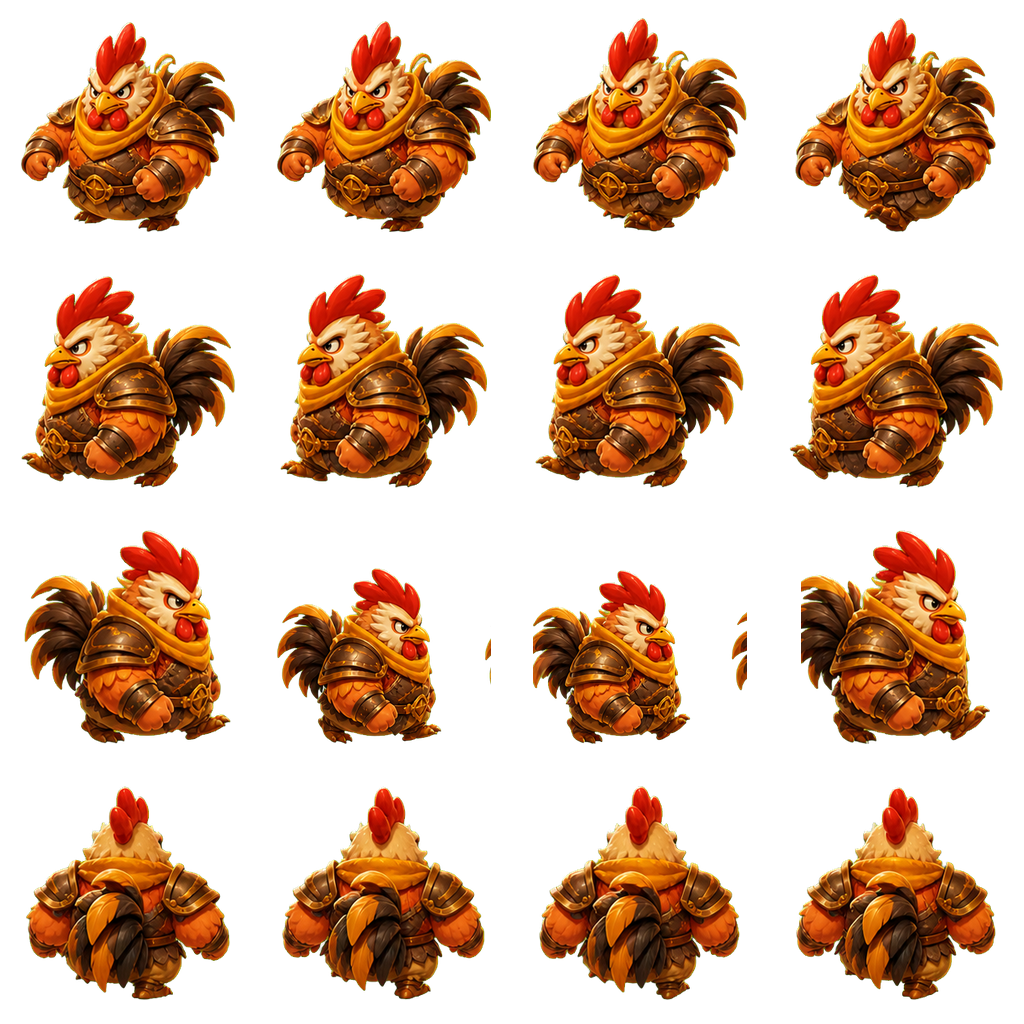
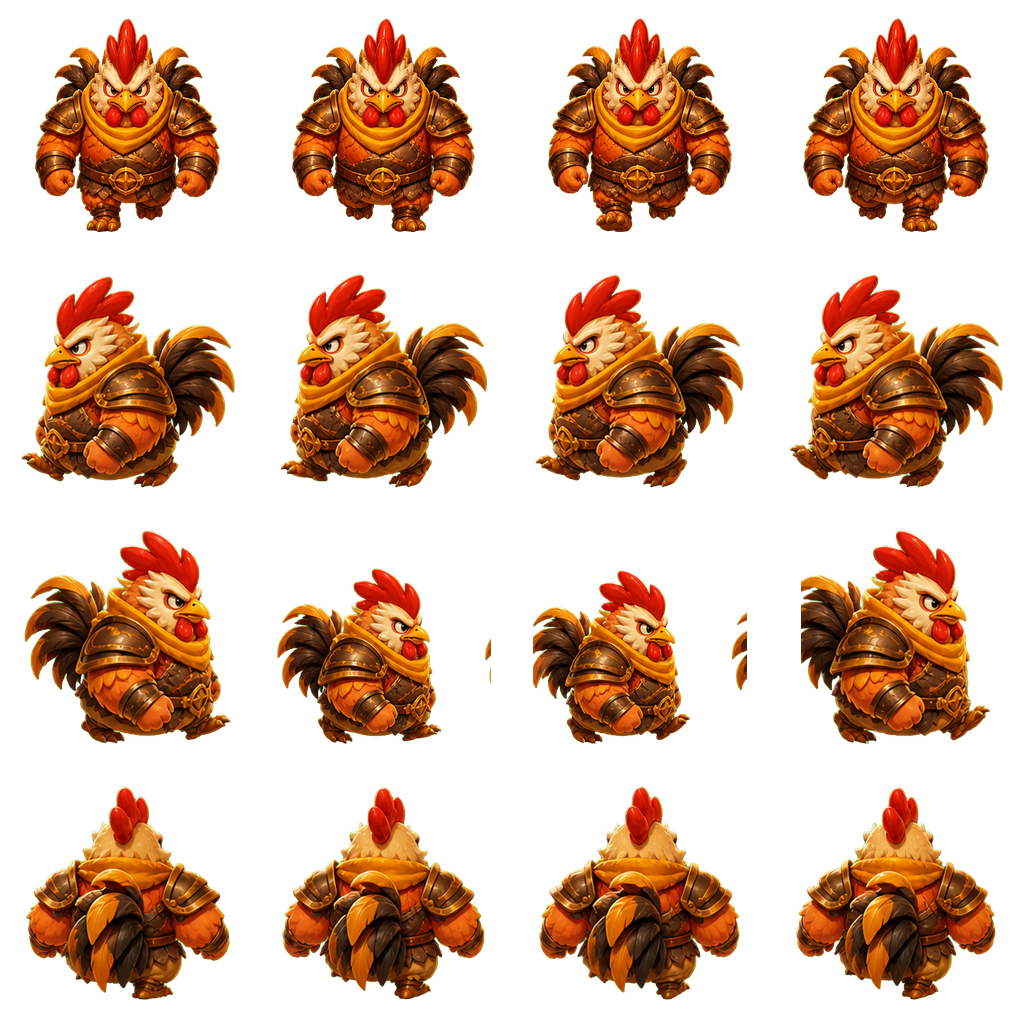
Correct Boombardier south-facing walk

diff --git a/scripts/prepare-rooster-art.py b/scripts/prepare-rooster-art.py
@@ -40,20 +40,33 @@ def normalize_character(character: Image.Image) -> Image.Image:
     return character
 
 
-def build_normalized_sheet(source: Path, target: Path, north_source: Path | None = None) -> None:
+def load_optional_strip(source: Path | None) -> Image.Image | None:
+    if not source or not source.exists():
+        return None
+    with Image.open(source) as image:
+        return image.convert("RGBA").copy()
+
+
+def build_normalized_sheet(
+    source: Path,
+    target: Path,
+    south_source: Path | None = None,
+    north_source: Path | None = None,
+) -> None:
     with Image.open(source) as image:
         converted = image.convert("RGBA")
-        north_strip = None
-        if north_source and north_source.exists():
-            with Image.open(north_source) as north_image:
-                north_strip = north_image.convert("RGBA").copy()
+        direction_strips = {
+            0: load_optional_strip(south_source),
+            3: load_optional_strip(north_source),
+        }
         sheet = Image.new("RGBA", SHEET_SIZE, (0, 0, 0, 0))
         for index in range(16):
             column = index % 4
             row = index // 4
-            frame_source = north_strip if row == 3 and north_strip is not None else converted
-            source_rows = 1 if frame_source is north_strip else 4
-            source_row = 0 if frame_source is north_strip else row
+            strip = direction_strips.get(row)
+            frame_source = strip if strip is not None else converted
+            source_rows = 1 if strip is not None else 4
+            source_row = 0 if strip is not None else row
             left = round(column * frame_source.width / 4)
             top = round(source_row * frame_source.height / source_rows)
             right = round((column + 1) * frame_source.width / 4)
@@ -122,12 +135,13 @@ def validate_portrait(path: Path) -> None:
 def main() -> None:
     for rooster in ROOSTERS:
         sheet_source = GENERATED_ROOT / f"rooster-{rooster}-walk-alpha.png"
+        south_source = GENERATED_ROOT / f"rooster-{rooster}-south-alpha.png"
         north_source = GENERATED_ROOT / f"rooster-{rooster}-north-alpha.png"
         portrait_source = GENERATED_ROOT / f"rooster-{rooster}-portrait-master.png"
         sheet_target = CHARACTER_ROOT / f"rooster-{rooster}-walk.png"
         portrait_target = CHARACTER_ROOT / f"rooster-{rooster}-portrait.png"
 
-        build_normalized_sheet(sheet_source, sheet_target, north_source)
+        build_normalized_sheet(sheet_source, sheet_target, south_source, north_source)
         resize_rgba(portrait_source, portrait_target, PORTRAIT_SIZE)
         metrics = validate_sheet(sheet_target)
         validate_portrait(portrait_target)

diff --git a/docs/PHASE_19_VISUAL_PRODUCTION.md b/docs/PHASE_19_VISUAL_PRODUCTION.md
@@ -20,6 +20,8 @@ Alle Sheets sind 1024 x 1024 Pixel gross. Jede der 16 Zellen ist 256 x 256 Pixel
 
 - Ace und Stormcrest besitzen neu gezeichnete, exakt gerade Nord-/Rueckenreihen;
   kein sichtbares Auge, kein Schnabel und keine Drei-Viertel-Drehung mehr.
+- Boombardiers urspruenglich nach links unten blickende Suedreihe wurde durch
+  eine exakt zentrierte Frontreihe mit symmetrischen Augen und Schultern ersetzt.
 - Boombardiers bereits korrekte Nordreihe blieb unveraendert und diente als
   Kamerawinkel-Referenz.
 - Die zusaetzlichen prozeduralen Laufrotationen und Stauchungen wurden entfernt.
@@ -55,7 +57,7 @@ Klassenvariablen:
 
 > Use case: stylized-concept. Asset type: square main-menu character portrait. Image 1 defines the premium Rooster Rage key-art style and class identity. Image 2 defines the final compact ingame character design. Create one polished hero portrait of [CLASS NAME] for a mobile game roster card. Square centered head-and-upper-torso three-quarter portrait, full comb/crest and shoulder silhouette visible, circular-crop safe with generous edge padding. Use a deep charcoal-to-[CLASS COLOR] radial backdrop with a restrained feather/storm/ember motif and soft rim glow. One rooster only; no attacks, projectiles, weapon, enemy, text, logo, watermark, UI, border or cropped comb.
 
-### Korrigierte Nordreihen
+### Korrigierte Richtungsreihen
 
 Fuer Ace und Stormcrest wurde der eingebaute ImageGen-Modus erneut verwendet.
 Der finale Prompt-Satz verlangte je Klasse genau vier getrennte Laufphasen in
@@ -64,6 +66,12 @@ Gesicht oder Seitendrehung, identische Groesse und Bodenlinie sowie die exakte
 Klassenidentitaet des bestehenden Sheets. Ace wurde auf `#00ff00`, Stormcrest
 auf `#ff00ff` erzeugt; beide Reihen wurden mit Soft Matte und Despill freigestellt.
 Es kam weiterhin kein CLI-/API-Fallback zum Einsatz.
+
+Boombardiers Suedkorrektur verwendete denselben Built-in-Workflow: bestehendes
+Boombardier-Sheet als verbindliche Identitaetsreferenz, Ace nur als Referenz fuer
+eine mittige Frontkamera, vier getrennte Laufphasen auf `#00ff00`. Der Prompt
+verlangte einen mittigen Schnabel, gleich sichtbare Augen, symmetrische Schultern
+und verbot ausdruecklich jede Links-/Rechts- oder Drei-Viertel-Drehung.
 
 ## Technische Aufbereitung
 
